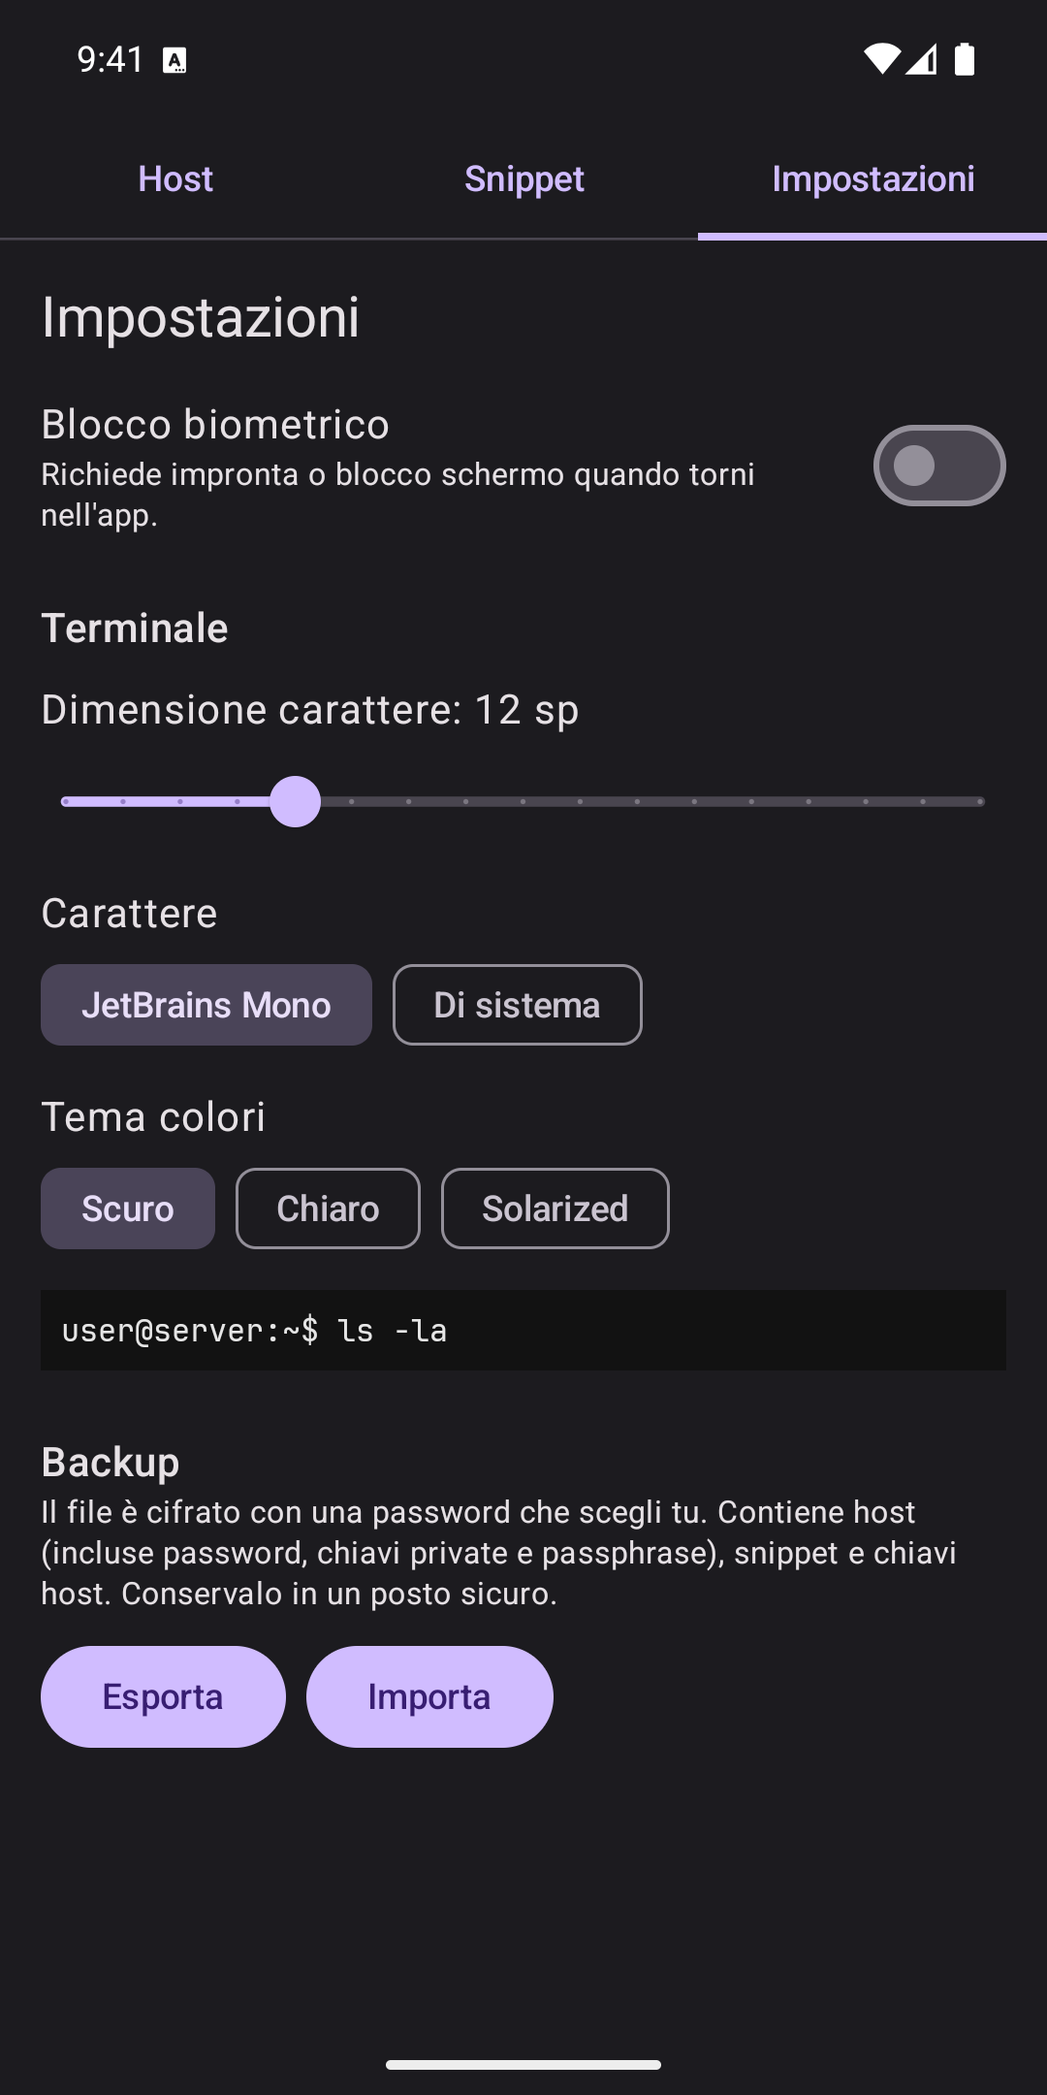
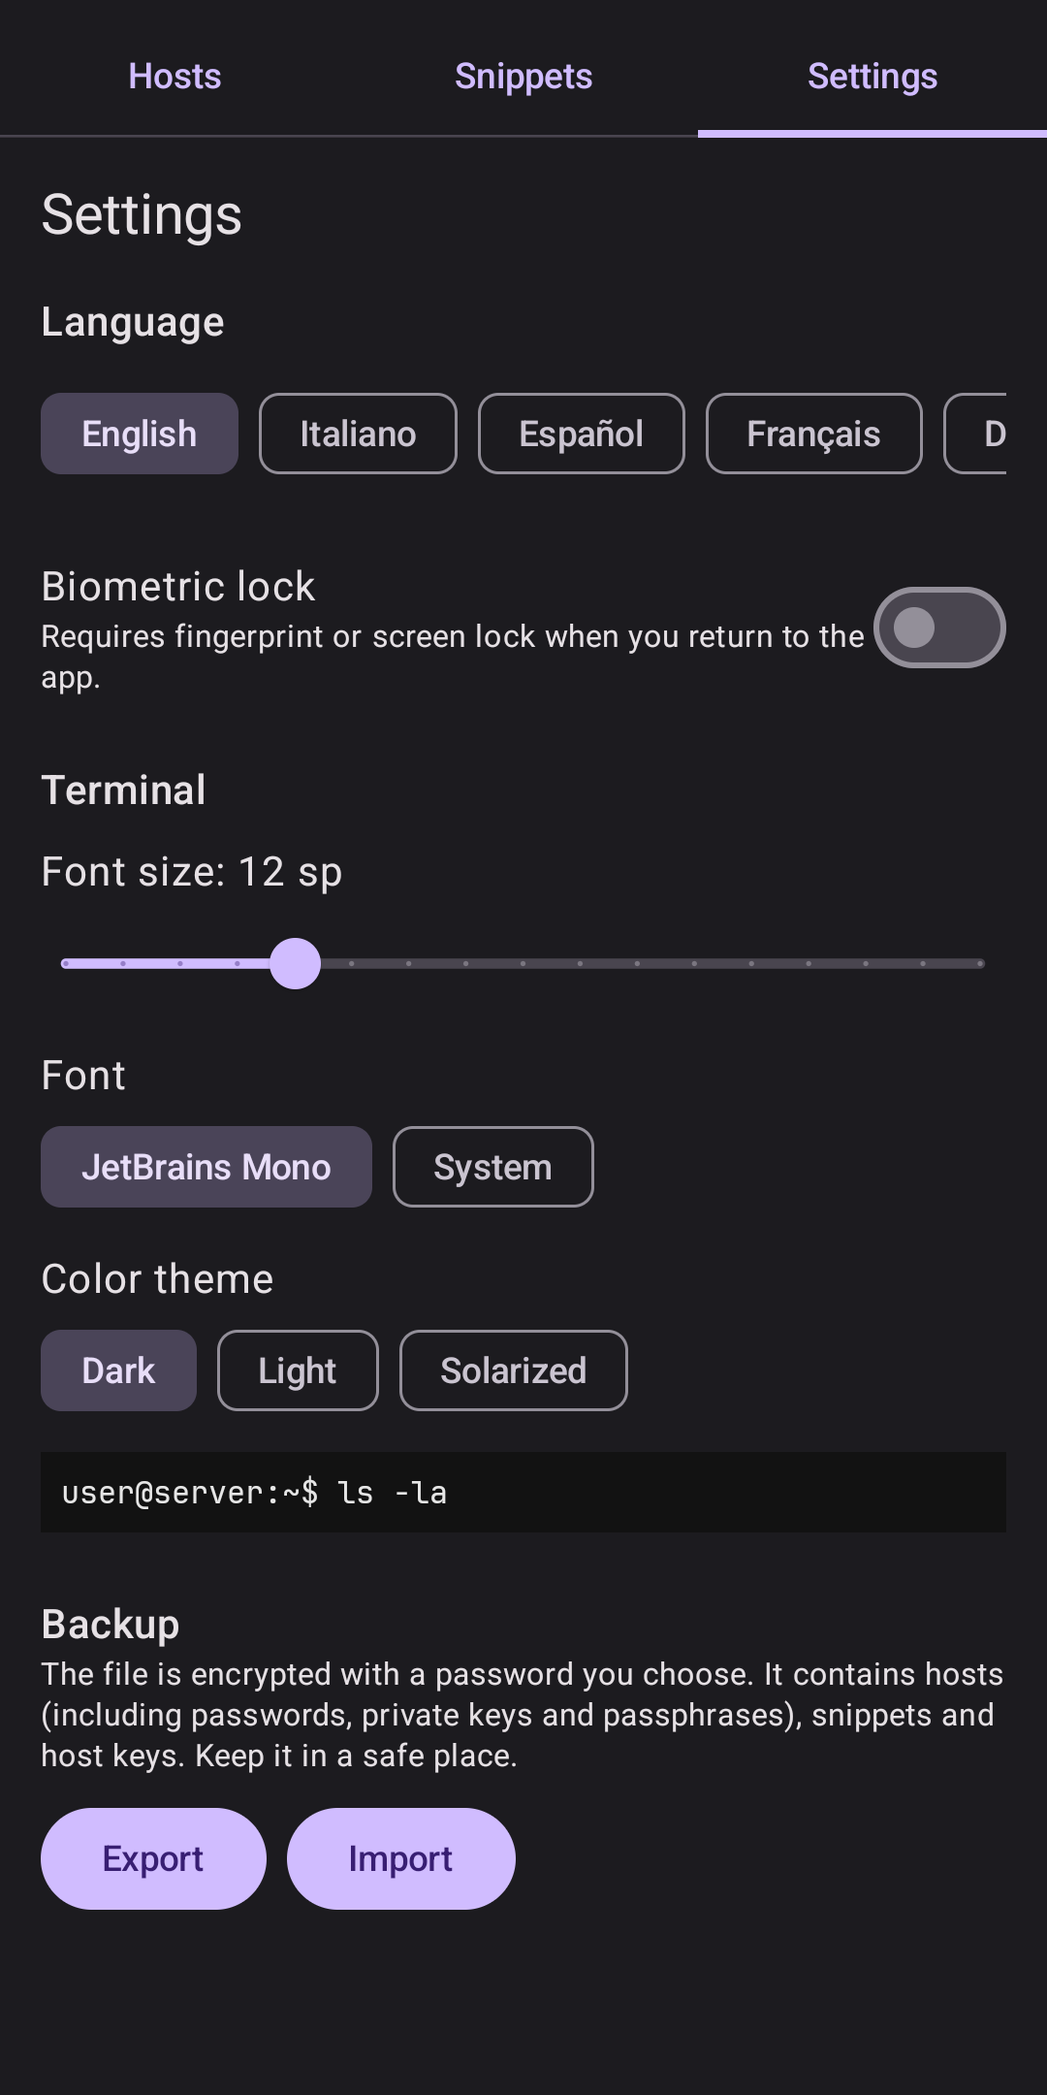
Multi-session SSH, exit closes session, Unicode variables, English screenshots
- Open multiple SSH sessions and switch between them with chips; exit closes only the current session
- Fix session drop caused by terminal resize handling; upgrade JSch to 2.28.8
- Unicode-aware {{variable}} names
- Add English default snippets; update README and store docs
- Regenerate store screenshots in English (01-06, 09 SFTP)

diff --git a/app/src/main/java/com/example/sshsnippets/TerminalScreen.kt b/app/src/main/java/com/example/sshsnippets/TerminalScreen.kt
@@ -1,6 +1,5 @@
 package com.example.sshsnippets
 
-import android.app.Activity
 import android.content.res.Configuration
 import androidx.compose.foundation.background
 import androidx.compose.foundation.horizontalScroll
@@ -35,8 +34,6 @@ import androidx.compose.ui.text.rememberTextMeasurer
 import androidx.compose.ui.unit.IntSize
 import androidx.compose.ui.unit.dp
 import androidx.compose.ui.unit.sp
-import kotlinx.coroutines.CoroutineScope
-import kotlinx.coroutines.Dispatchers
 import kotlinx.coroutines.launch
 import kotlin.math.roundToInt
 
@@ -110,21 +107,25 @@ private fun Modifier.pinchToZoom(onZoom: (Float) -> Unit): Modifier = pointerInp
 }
 
 @Composable
-fun TerminalScreen(host: Host, snippets: List<Snippet>, store: Store, onExit: () -> Unit) {
+fun TerminalScreen(session: OpenSession, snippets: List<Snippet>, store: Store, onNew: () -> Unit) {
     val scope = rememberCoroutineScope()
     val context = LocalContext.current
-    val ssh = remember { SshSession(context, host, store) }
-    val term = remember { AnsiTerminal(80, 24) }
-    var version by remember { mutableIntStateOf(0) }
-    var status by remember { mutableStateOf(context.getString(R.string.terminal_connecting, host.hostname)) }
-    var input by remember { mutableStateOf(TextFieldValue()) }
+    val host = session.host
+    val ssh = session.ssh
+    val term = session.term
+    var version by session.version
+    val state = session.state.value
+    val status = when (state) {
+        SessionState.Connecting -> context.getString(R.string.terminal_connecting, host.hostname)
+        SessionState.Connected -> context.getString(R.string.terminal_connected, host.hostname)
+        is SessionState.Failed -> context.getString(R.string.terminal_error, state.message)
+    }
+    var input by session.input
     var pending by remember { mutableStateOf<Snippet?>(null) }
     val values = remember { mutableStateMapOf<String, String>() }
-    var ctrl by remember { mutableStateOf(false) }
+    var ctrl by session.ctrl
     var history by remember(host.id) { mutableStateOf(store.loadHistory(host.id)) }
     var areaSize by remember { mutableStateOf(IntSize.Zero) }
-    val hostKeys = rememberHostKeyPrompter()
-    val activity = context as? Activity
 
     val theme = remember { themeById(store.terminalThemeId()) }
     var fontSp by remember { mutableFloatStateOf(store.terminalFontSize().toFloat()) }
@@ -143,24 +144,6 @@ fun TerminalScreen(host: Host, snippets: List<Snippet>, store: Store, onExit: ()
     val listState = rememberLazyListState()
     val snap = remember(version) { synchronized(term) { term.snapshot() } }
 
-    LaunchedEffect(Unit) {
-        try {
-            ssh.connect(
-                confirmHostKey = { fingerprint -> hostKeys.confirm(host.hostname, fingerprint) },
-                onOutput = { chunk ->
-                    synchronized(term) { term.feed(chunk) }
-                    scope.launch(Dispatchers.Main) { version++ }
-                },
-                onClosed = {
-                    scope.launch(Dispatchers.Main) { activity?.finishAndRemoveTask() }
-                },
-            )
-            status = context.getString(R.string.terminal_connected, host.hostname)
-        } catch (e: Exception) {
-            status = context.getString(R.string.terminal_error, e.message ?: e.javaClass.simpleName)
-        }
-    }
-
     LaunchedEffect(areaSize, cellW, cellH) {
         if (areaSize.width <= padPx || areaSize.height <= padPx) return@LaunchedEffect
         val c = ((areaSize.width - padPx) / cellW).coerceAtLeast(20)
@@ -172,10 +155,6 @@ fun TerminalScreen(host: Host, snippets: List<Snippet>, store: Store, onExit: ()
 
     LaunchedEffect(version) { listState.scrollToItem(0) }
 
-    DisposableEffect(Unit) {
-        onDispose { CoroutineScope(Dispatchers.IO).launch { ssh.close() } }
-    }
-
     fun send(s: String) {
         scope.launch { ssh.send(s) }
     }
@@ -183,15 +162,18 @@ fun TerminalScreen(host: Host, snippets: List<Snippet>, store: Store, onExit: ()
     @Composable
     fun Header(stacked: Boolean) {
         if (stacked) {
-            Column(Modifier.fillMaxWidth()) {
-                TextButton(onExit) { Text("< ${host.name}") }
+            Column(Modifier.fillMaxWidth(), verticalArrangement = Arrangement.spacedBy(4.dp)) {
+                OpenSessions.list.forEach { s -> SessionChip(s) { OpenSessions.select(s) } }
+                TextButton(onNew) { Text(stringResource(R.string.session_new)) }
                 Text(status, style = MaterialTheme.typography.labelSmall, modifier = Modifier.padding(start = 12.dp))
             }
         } else {
-            Row(Modifier.fillMaxWidth().padding(4.dp), verticalAlignment = Alignment.CenterVertically) {
-                TextButton(onExit) { Text("< ${host.name}") }
-                Spacer(Modifier.weight(1f))
-                Text(status, style = MaterialTheme.typography.labelSmall, modifier = Modifier.padding(end = 8.dp))
+            Column(Modifier.fillMaxWidth()) {
+                Row(Modifier.fillMaxWidth().padding(4.dp), verticalAlignment = Alignment.CenterVertically) {
+                    SessionChipRow(Modifier.weight(1f)) { OpenSessions.select(it) }
+                    TextButton(onNew) { Text(stringResource(R.string.session_new)) }
+                }
+                Text(status, style = MaterialTheme.typography.labelSmall, modifier = Modifier.padding(start = 12.dp))
             }
         }
     }
@@ -370,5 +352,4 @@ fun TerminalScreen(host: Host, snippets: List<Snippet>, store: Store, onExit: ()
         )
     }
 
-    HostKeyDialog(hostKeys)
 }

diff --git a/app/src/main/java/com/example/sshsnippets/OpenSessions.kt b/app/src/main/java/com/example/sshsnippets/OpenSessions.kt
@@ -1,0 +1,93 @@
+package com.example.sshsnippets
+
+import android.content.Context
+import androidx.compose.runtime.getValue
+import androidx.compose.runtime.mutableIntStateOf
+import androidx.compose.runtime.mutableStateListOf
+import androidx.compose.runtime.mutableStateOf
+import androidx.compose.runtime.setValue
+import androidx.compose.ui.text.input.TextFieldValue
+import kotlinx.coroutines.CoroutineScope
+import kotlinx.coroutines.Dispatchers
+import kotlinx.coroutines.SupervisorJob
+import kotlinx.coroutines.launch
+import java.util.UUID
+
+sealed interface SessionState {
+    data object Connecting : SessionState
+    data object Connected : SessionState
+    class Failed(val message: String) : SessionState
+}
+
+/** Una connessione SSH aperta con il suo terminale e lo stato della barra di input. */
+class OpenSession(val host: Host, val ssh: SshSession) {
+    val id: String = UUID.randomUUID().toString()
+    val term = AnsiTerminal(80, 24)
+    val version = mutableIntStateOf(0)
+    val state = mutableStateOf<SessionState>(SessionState.Connecting)
+    val input = mutableStateOf(TextFieldValue())
+    val ctrl = mutableStateOf(false)
+}
+
+/**
+ * Sessioni SSH aperte. Vivono a livello di processo e non di schermata: tornare alla lista host
+ * non le chiude, e così si può saltare da una connessione all'altra.
+ */
+object OpenSessions {
+    val list = mutableStateListOf<OpenSession>()
+    var activeId by mutableStateOf<String?>(null)
+    var showTerminal by mutableStateOf(false)
+    val hostKeys = HostKeyPrompter()
+
+    private lateinit var store: Store
+    private lateinit var context: Context
+    private val scope = CoroutineScope(SupervisorJob() + Dispatchers.Main)
+
+    val active: OpenSession?
+        get() = list.firstOrNull { it.id == activeId }
+
+    /** Va chiamata da MainActivity con il contesto nella lingua scelta dall'utente. */
+    fun attach(store: Store, context: Context) {
+        this.store = store
+        this.context = context
+    }
+
+    fun open(host: Host) {
+        val session = OpenSession(host, SshSession(context, host, store))
+        list.add(session)
+        activeId = session.id
+        showTerminal = true
+        scope.launch {
+            try {
+                session.ssh.connect(
+                    confirmHostKey = { fingerprint -> hostKeys.confirm(host.hostname, fingerprint) },
+                    onOutput = { chunk ->
+                        synchronized(session.term) { session.term.feed(chunk) }
+                        scope.launch { session.version.intValue++ }
+                    },
+                    onClosed = { scope.launch { close(session) } },
+                )
+                session.state.value = SessionState.Connected
+            } catch (e: Exception) {
+                session.state.value = SessionState.Failed(e.message ?: e.javaClass.simpleName)
+            }
+        }
+    }
+
+    fun select(session: OpenSession) {
+        activeId = session.id
+        showTerminal = true
+    }
+
+    /** Chiude una sessione. Se era quella mostrata, passa a un'altra aperta o alla lista host. */
+    fun close(session: OpenSession) {
+        val index = list.indexOf(session)
+        if (index < 0) return
+        list.removeAt(index)
+        if (activeId == session.id) {
+            activeId = list.getOrNull(index.coerceAtMost(list.lastIndex))?.id
+        }
+        if (list.isEmpty()) showTerminal = false
+        scope.launch(Dispatchers.IO) { session.ssh.close() }
+    }
+}

diff --git a/app/src/main/java/com/example/sshsnippets/MainActivity.kt b/app/src/main/java/com/example/sshsnippets/MainActivity.kt
@@ -37,6 +37,7 @@ class MainActivity : FragmentActivity() {
     override fun onCreate(savedInstanceState: Bundle?) {
         super.onCreate(savedInstanceState)
         val store = Store(applicationContext)
+        OpenSessions.attach(store, localizedContext(applicationContext, store.appLanguage()))
         setContent { MaterialTheme(colorScheme = darkColorScheme()) { App(store, lock) } }
     }
 
@@ -50,17 +51,18 @@ class MainActivity : FragmentActivity() {
 fun App(store: Store, lock: AppLockViewModel) {
     var hosts by remember { mutableStateOf(store.loadHosts()) }
     var snippets by remember { mutableStateOf(store.loadSnippets()) }
-    var active by remember { mutableStateOf<Host?>(null) }
     var sftpHost by remember { mutableStateOf<Host?>(null) }
     var tab by rememberSaveable { mutableStateOf(0) }
+    val terminal = OpenSessions.active.takeIf { OpenSessions.showTerminal }
 
     Surface(Modifier.fillMaxSize()) {
         // Il contenuto resta composto sotto la schermata di blocco, così il terminale non viene perso.
         Box(Modifier.fillMaxSize()) {
-            val h = active
             val s = sftpHost
             when {
-                h != null -> TerminalScreen(h, snippets, store) { active = null }
+                terminal != null -> key(terminal.id) {
+                    TerminalScreen(terminal, snippets, store) { OpenSessions.showTerminal = false }
+                }
                 s != null -> SftpScreen(s, store, lock) { sftpHost = null }
                 else -> Column(Modifier.fillMaxSize().systemBarsPadding()) {
                     TabRow(tab) {
@@ -72,7 +74,7 @@ fun App(store: Store, lock: AppLockViewModel) {
                         0 -> HostsScreen(
                             hosts,
                             { hosts = it; store.saveHosts(it) },
-                            { active = it },
+                            { OpenSessions.open(it) },
                             { sftpHost = it },
                             { store.removeHostKey("${it.hostname}:${it.port}") },
                             lock,
@@ -85,6 +87,7 @@ fun App(store: Store, lock: AppLockViewModel) {
                     }
                 }
             }
+            HostKeyDialog(OpenSessions.hostKeys)
             if (lock.locked) LockScreen(lock)
         }
     }
@@ -142,6 +145,10 @@ fun HostsScreen(
     }
 
     Column(Modifier.fillMaxSize().padding(12.dp)) {
+        if (OpenSessions.list.isNotEmpty()) {
+            Text(stringResource(R.string.sessions_open), style = MaterialTheme.typography.labelLarge)
+            SessionChipRow(Modifier.padding(vertical = 4.dp)) { OpenSessions.select(it) }
+        }
         Button(onClick = {
             if (editing) {
                 resetForm(); editing = false

diff --git a/app/src/main/java/com/example/sshsnippets/SessionBar.kt b/app/src/main/java/com/example/sshsnippets/SessionBar.kt
@@ -1,0 +1,46 @@
+package com.example.sshsnippets
+
+import androidx.compose.foundation.clickable
+import androidx.compose.foundation.horizontalScroll
+import androidx.compose.foundation.layout.Arrangement
+import androidx.compose.foundation.layout.Row
+import androidx.compose.foundation.layout.size
+import androidx.compose.foundation.rememberScrollState
+import androidx.compose.material.icons.Icons
+import androidx.compose.material.icons.filled.Close
+import androidx.compose.material3.Icon
+import androidx.compose.material3.InputChip
+import androidx.compose.material3.Text
+import androidx.compose.runtime.Composable
+import androidx.compose.ui.Alignment
+import androidx.compose.ui.Modifier
+import androidx.compose.ui.res.stringResource
+import androidx.compose.ui.unit.dp
+
+@Composable
+fun SessionChip(session: OpenSession, onSelect: () -> Unit) {
+    InputChip(
+        selected = session.id == OpenSessions.activeId,
+        onClick = onSelect,
+        label = { Text(session.host.name, maxLines = 1) },
+        trailingIcon = {
+            Icon(
+                Icons.Default.Close,
+                contentDescription = stringResource(R.string.session_close),
+                modifier = Modifier.size(18.dp).clickable { OpenSessions.close(session) },
+            )
+        },
+    )
+}
+
+/** Sessioni aperte in una riga scorrevole orizzontalmente. */
+@Composable
+fun SessionChipRow(modifier: Modifier = Modifier, onSelect: (OpenSession) -> Unit) {
+    Row(
+        modifier.horizontalScroll(rememberScrollState()),
+        horizontalArrangement = Arrangement.spacedBy(6.dp),
+        verticalAlignment = Alignment.CenterVertically,
+    ) {
+        OpenSessions.list.forEach { s -> SessionChip(s) { onSelect(s) } }
+    }
+}

diff --git a/app/src/main/java/com/example/sshsnippets/SshSession.kt b/app/src/main/java/com/example/sshsnippets/SshSession.kt
@@ -9,6 +9,7 @@ import kotlinx.coroutines.CoroutineScope
 import kotlinx.coroutines.Dispatchers
 import kotlinx.coroutines.launch
 import kotlinx.coroutines.withContext
+import java.io.IOException
 import java.io.InputStreamReader
 import java.io.OutputStream
 
@@ -101,9 +102,11 @@ class SshSession(private val context: Context, private val host: Host, private v
                     if (n < 0) break
                     onOutput(String(buf, 0, n))
                 }
-            } catch (_: Exception) {
+            } catch (e: IOException) {
+                // Il server ha chiuso il canale: lo gestisce onClosed.
+            } finally {
+                onClosed()
             }
-            onClosed()
         }
     }
 

diff --git a/app/src/main/java/com/example/sshsnippets/Models.kt b/app/src/main/java/com/example/sshsnippets/Models.kt
@@ -25,7 +25,7 @@ data class Snippet(
     val sendEnter: Boolean = true,
 ) {
     // Le graffe di chiusura vanno escapate: il runtime Android le rifiuta altrimenti.
-    private val varRegex get() = Regex("\\{\\{\\s*(\\w+)\\s*\\}\\}")
+    private val varRegex get() = Regex("\\{\\{\\s*([\\p{L}\\p{N}_]+)\\s*\\}\\}")
 
     fun variables(): List<String> =
         varRegex.findAll(command).map { it.groupValues[1] }.distinct().toList()

diff --git a/docs/play-store.md b/docs/play-store.md
@@ -24,11 +24,12 @@ Terminale
 - Impostazioni del terminale: dimensione del carattere (8–24 sp), font di sistema o JetBrains Mono, tema colori Scuro, Chiaro o Solarized.
 - Lingue: inglese (predefinito), italiano, spagnolo, francese, tedesco, cinese semplificato, russo e coreano. Si cambiano in Impostazioni.
 - Zoom a due dita sul terminale per ingrandire o ridurre il testo.
-- Digitando `exit` la sessione si chiude e l'app si chiude.
+- Più sessioni SSH aperte contemporaneamente, con passaggio da un chip all'altro senza disconnettere.
+- Digitando `exit` si chiude solo la sessione corrente.
 - In orizzontale snippet e tasti rapidi sono in una colonna laterale scorrevole, e il terminale resta visibile anche con la tastiera aperta.
 
 Snippet
-- Salva i comandi che usi più spesso, con nome e variabili tipo {{nome}} (lettere senza accenti, cifre e underscore).
+- Salva i comandi che usi più spesso, con nome e variabili tipo {{nome}} (lettere di qualsiasi alfabeto, cifre e underscore).
 - Lancia uno snippet sul server con un tocco e conferma.
 
 Host
@@ -113,7 +114,7 @@ Icona launcher: adaptive icon in `app/src/main/res/mipmap-anydpi-v26/`, con prom
 - [ ] Questionario contenuti e classificazione età compilati.
 - [ ] Dichiarazione di sicurezza per le app con crittografia (export compliance): l'app usa crittografia standard (SSH, AES-GCM).
 - [ ] Test chiuso: se l'account personale è stato creato di recente, Google richiede un test chiuso con almeno 12 tester per 14 giorni prima della produzione. Verifica nella Console la regola corrente.
-- [ ] Screenshot rifatti in inglese, con dati fittizi (vedi sopra).
+- [x] Screenshot rifatti in inglese, con dati fittizi (vedi sopra).
 - [ ] Test su dispositivo reale: blocco biometrico, selettore file, SFTP, backup e ripristino, cambio lingua.
 
 ## Limiti da dichiarare agli utenti
@@ -123,6 +124,5 @@ Icona launcher: adaptive icon in `app/src/main/res/mipmap-anydpi-v26/`, con prom
 - Nessuna sincronizzazione cloud: il backup è un file cifrato che l'utente gestisce.
 - SFTP non cancella le cartelle non vuote.
 - Importare un backup sostituisce i dati presenti nell'app.
-- Le variabili `{{...}}` degli snippet accettano solo lettere ASCII, cifre e underscore. Nomi con accenti o alfabeti non latini non vengono riconosciuti.
 - Il messaggio di avviso per una chiave host cambiata arriva dalla libreria SSH ed è in inglese in tutte le lingue.
 - Chiavi host ed25519: la connessione con un server che offre solo `ssh-ed25519` come chiave host fallisce. Con RSA o ECDSA la connessione funziona. Da dichiarare nella descrizione o risolvere prima del rilascio.

diff --git a/README.md b/README.md
@@ -27,7 +27,8 @@ Client SSH per Android con gestione di snippet di comandi riutilizzabili. Nessun
 - **Terminale SSH** con emulazione ANSI (colori, cursore, scroll) e tasti speciali (Esc, Tab, Ctrl, frecce).
 - **Lingue**: inglese (predefinito), italiano, spagnolo, francese, tedesco, cinese semplificato, russo e coreano. Si scelgono in Impostazioni e l'app si aggiorna subito.
 - **Aspetto del terminale** in Impostazioni: dimensione del carattere (8–24 sp), font di sistema o JetBrains Mono, tema colori Scuro, Chiaro o Solarized. Con due dita sul terminale si ingrandisce o riduce il testo, e la dimensione viene salvata.
-- **Uscita dalla sessione**: digitando `exit` la connessione si chiude e l'app si chiude.
+- **Sessioni multiple**: puoi tenere aperte più connessioni contemporaneamente. Ogni sessione è un chip in alto nel terminale: tocca il nome per passare da una all'altra senza disconnettere le altre. `+ Host` apre un'altra connessione, la × chiude la sessione.
+- **Uscita dalla sessione**: digitando `exit` si chiude solo la sessione corrente. Le altre restano aperte, e chiudendo l'ultima si torna alla lista host.
 - **Orizzontale**: con il telefono in orizzontale la colonna destra mostra host, snippet e tasti rapidi, scorrevole; il terminale occupa la parte sinistra, con la riga di input compatta.
 - **Logo della distribuzione** accanto al nome dell'host (Debian, Ubuntu, Linux Mint, Fedora, Red Hat, Arch, Alpine, Windows, macOS, FreeBSD o generico), scelto nel form dell'host.
 - **Cronologia dei comandi** per host: mentre digiti (es. `cd`) compaiono i comandi già usati che iniziano così, dal più usato al meno usato.
@@ -79,7 +80,7 @@ Le chiavi di firma (`*.jks`, `*.keystore`) e le password non devono mai finire n
 
 - Il terminale non supporta applicazioni a schermo intero come `vim` o `htop`.
 - Server che offrono solo chiavi host `ssh-ed25519` non si connettono. RSA ed ECDSA funzionano.
-- Le variabili degli snippet accettano solo lettere ASCII, cifre e `_` (`{{servizio}}` sì, `{{è}}` o `{{nome città}}` no).
+- Le variabili degli snippet accettano lettere di qualsiasi alfabeto, cifre e `_` (`{{servizio}}`, `{{città}}` o `{{имя}}` sì; spazi e simboli no).
 - Le chiavi sono associate al singolo host, non condivise.
 - Nessuna sincronizzazione cloud: il backup è un file che gestisci tu.
 - SFTP non cancella le cartelle non vuote.
